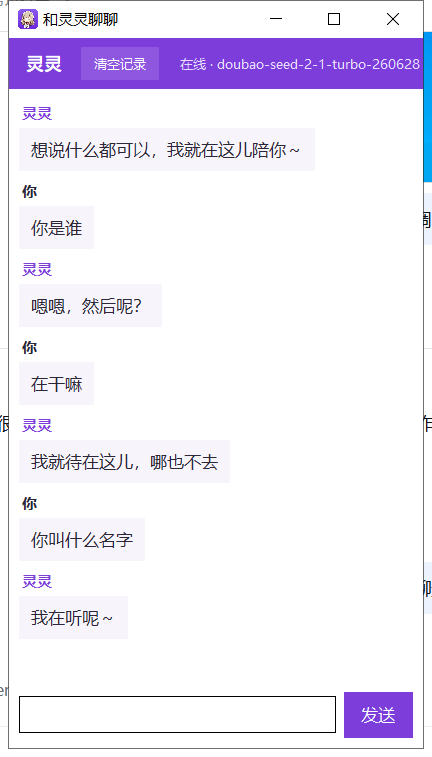
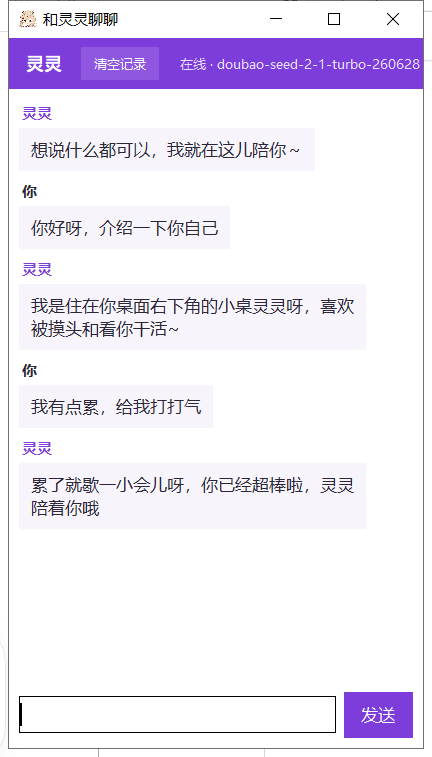
docs: 换掉两张负面展示图（真实对话截图 + 更柔和的展示图）

diff --git a/README.md b/README.md
@@ -15,8 +15,8 @@
 </p>
 
 <p align="center">
-  <img src="docs/screenshots/pet.png" width="260" alt="桌宠">
-  <img src="docs/screenshots/chat.png" width="260" alt="聊天">
+  <img src="docs/screenshots/pet.png" width="320" alt="桌宠">
+  <img src="docs/screenshots/chat.png" width="230" alt="聊天">
 </p>
 
 ---
